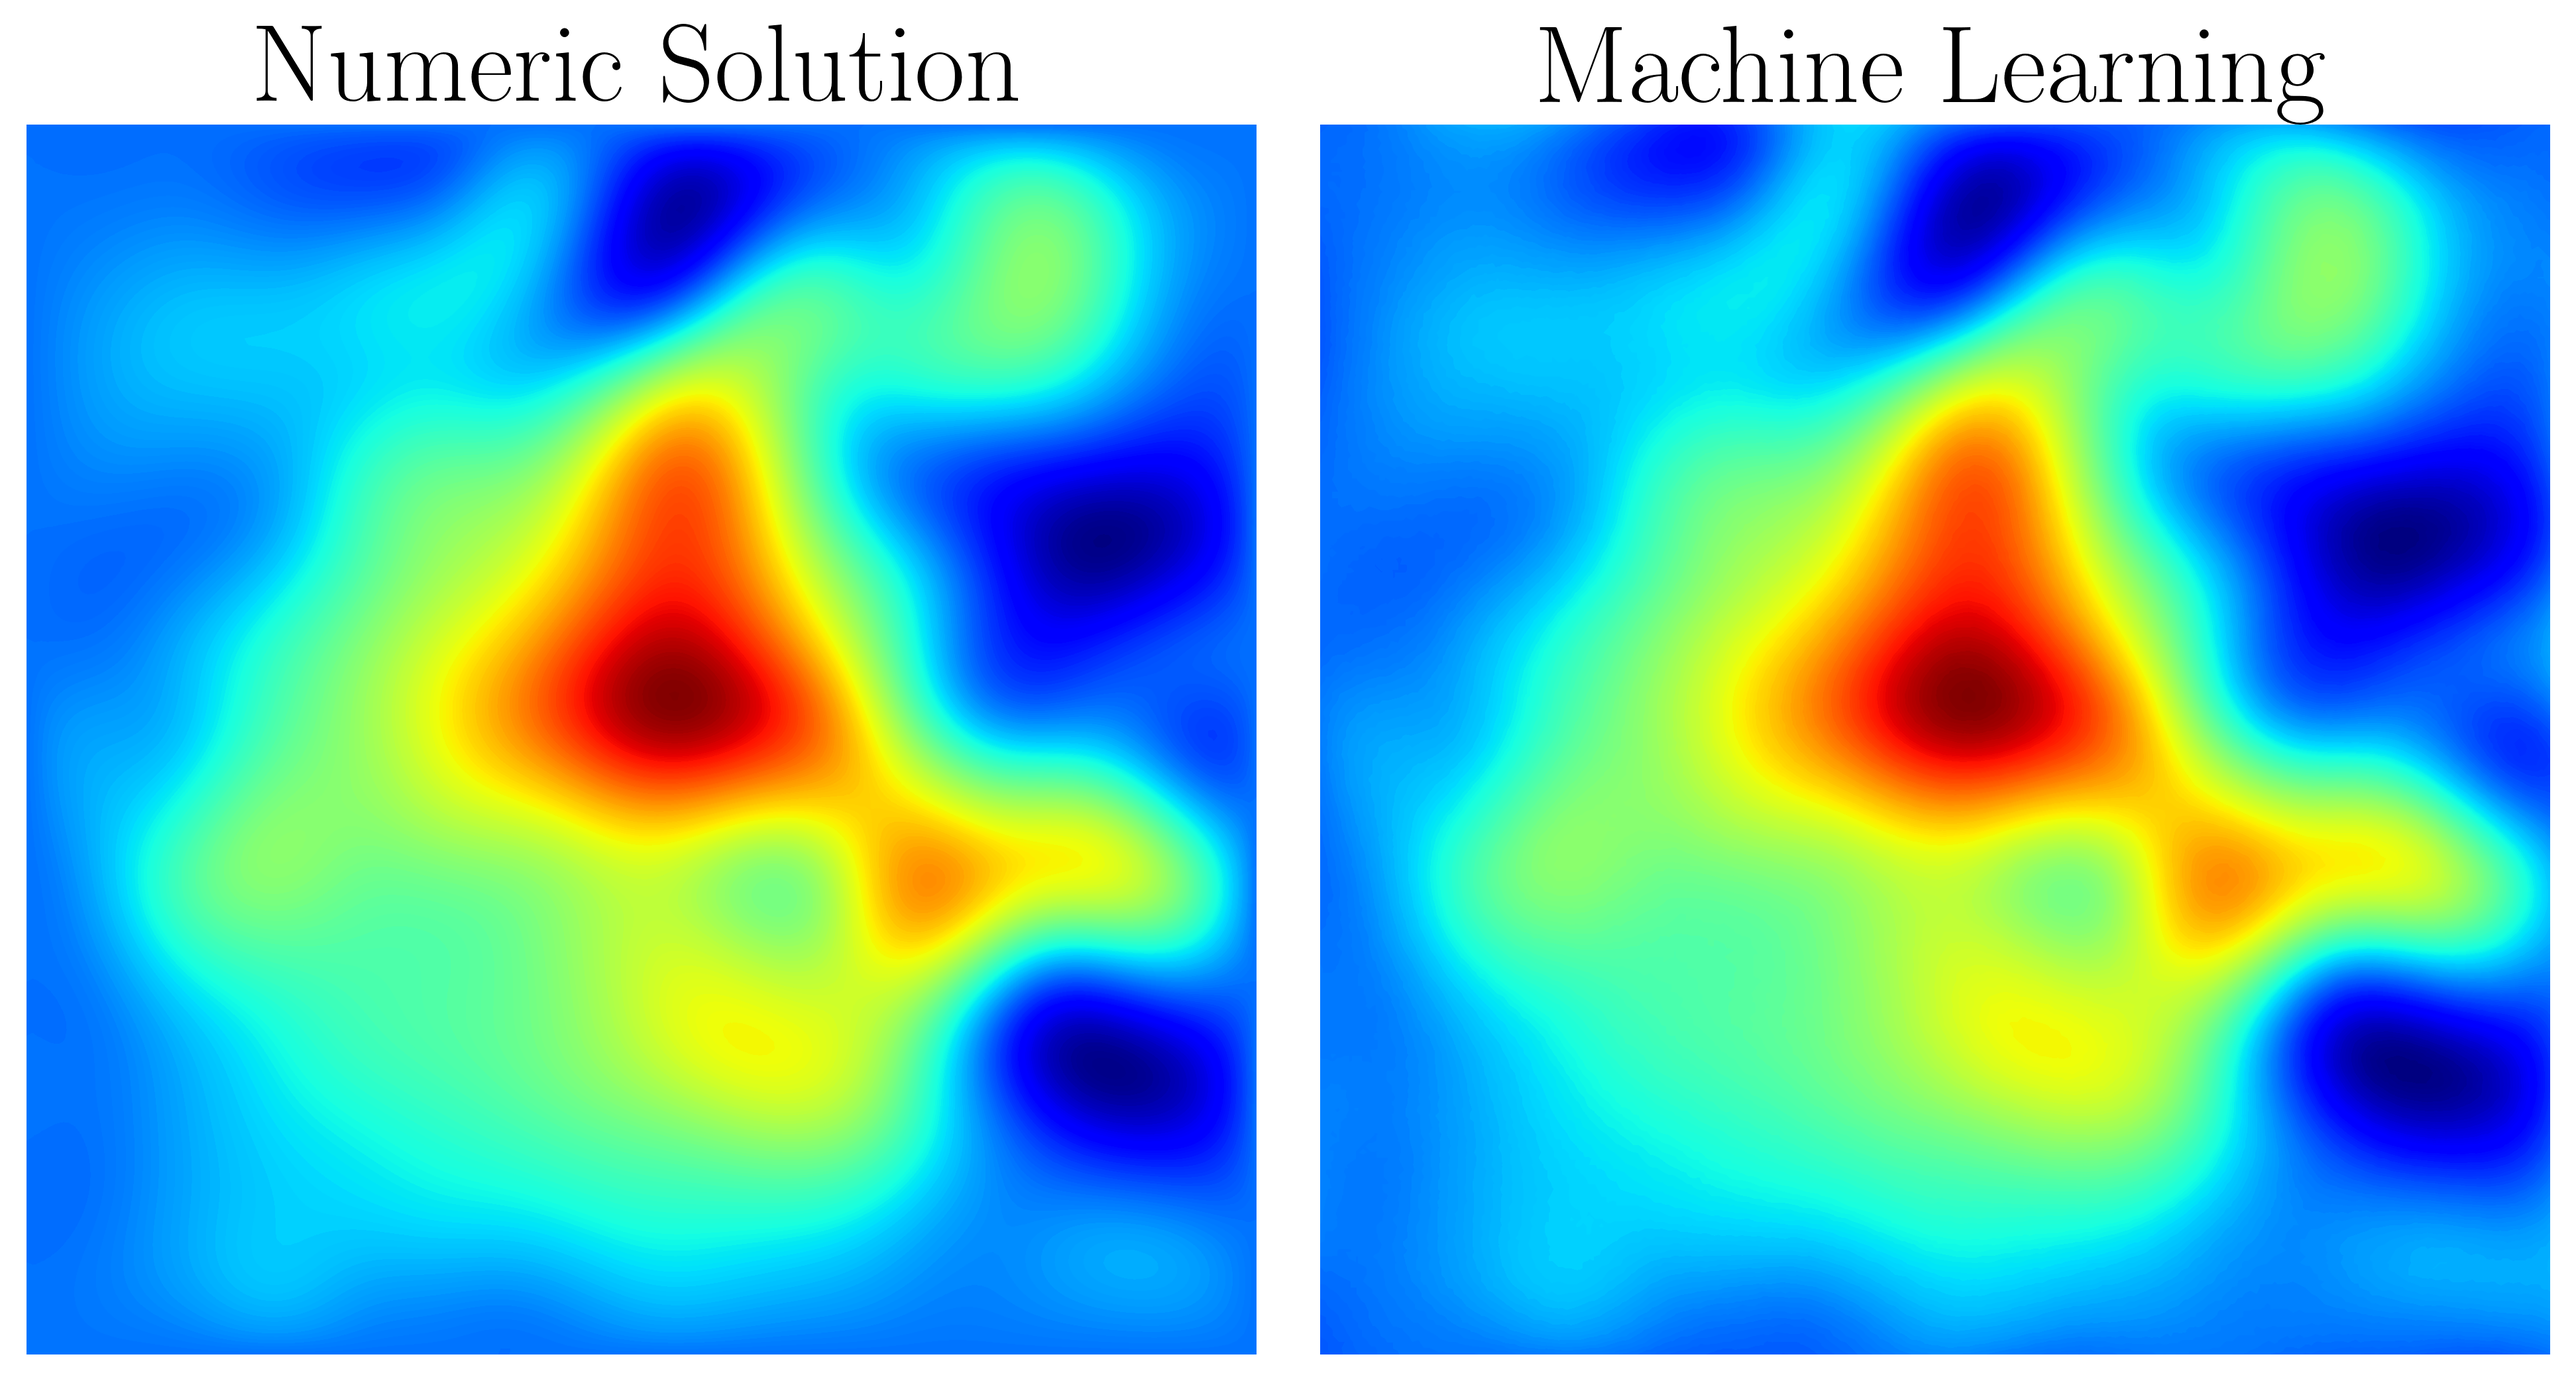
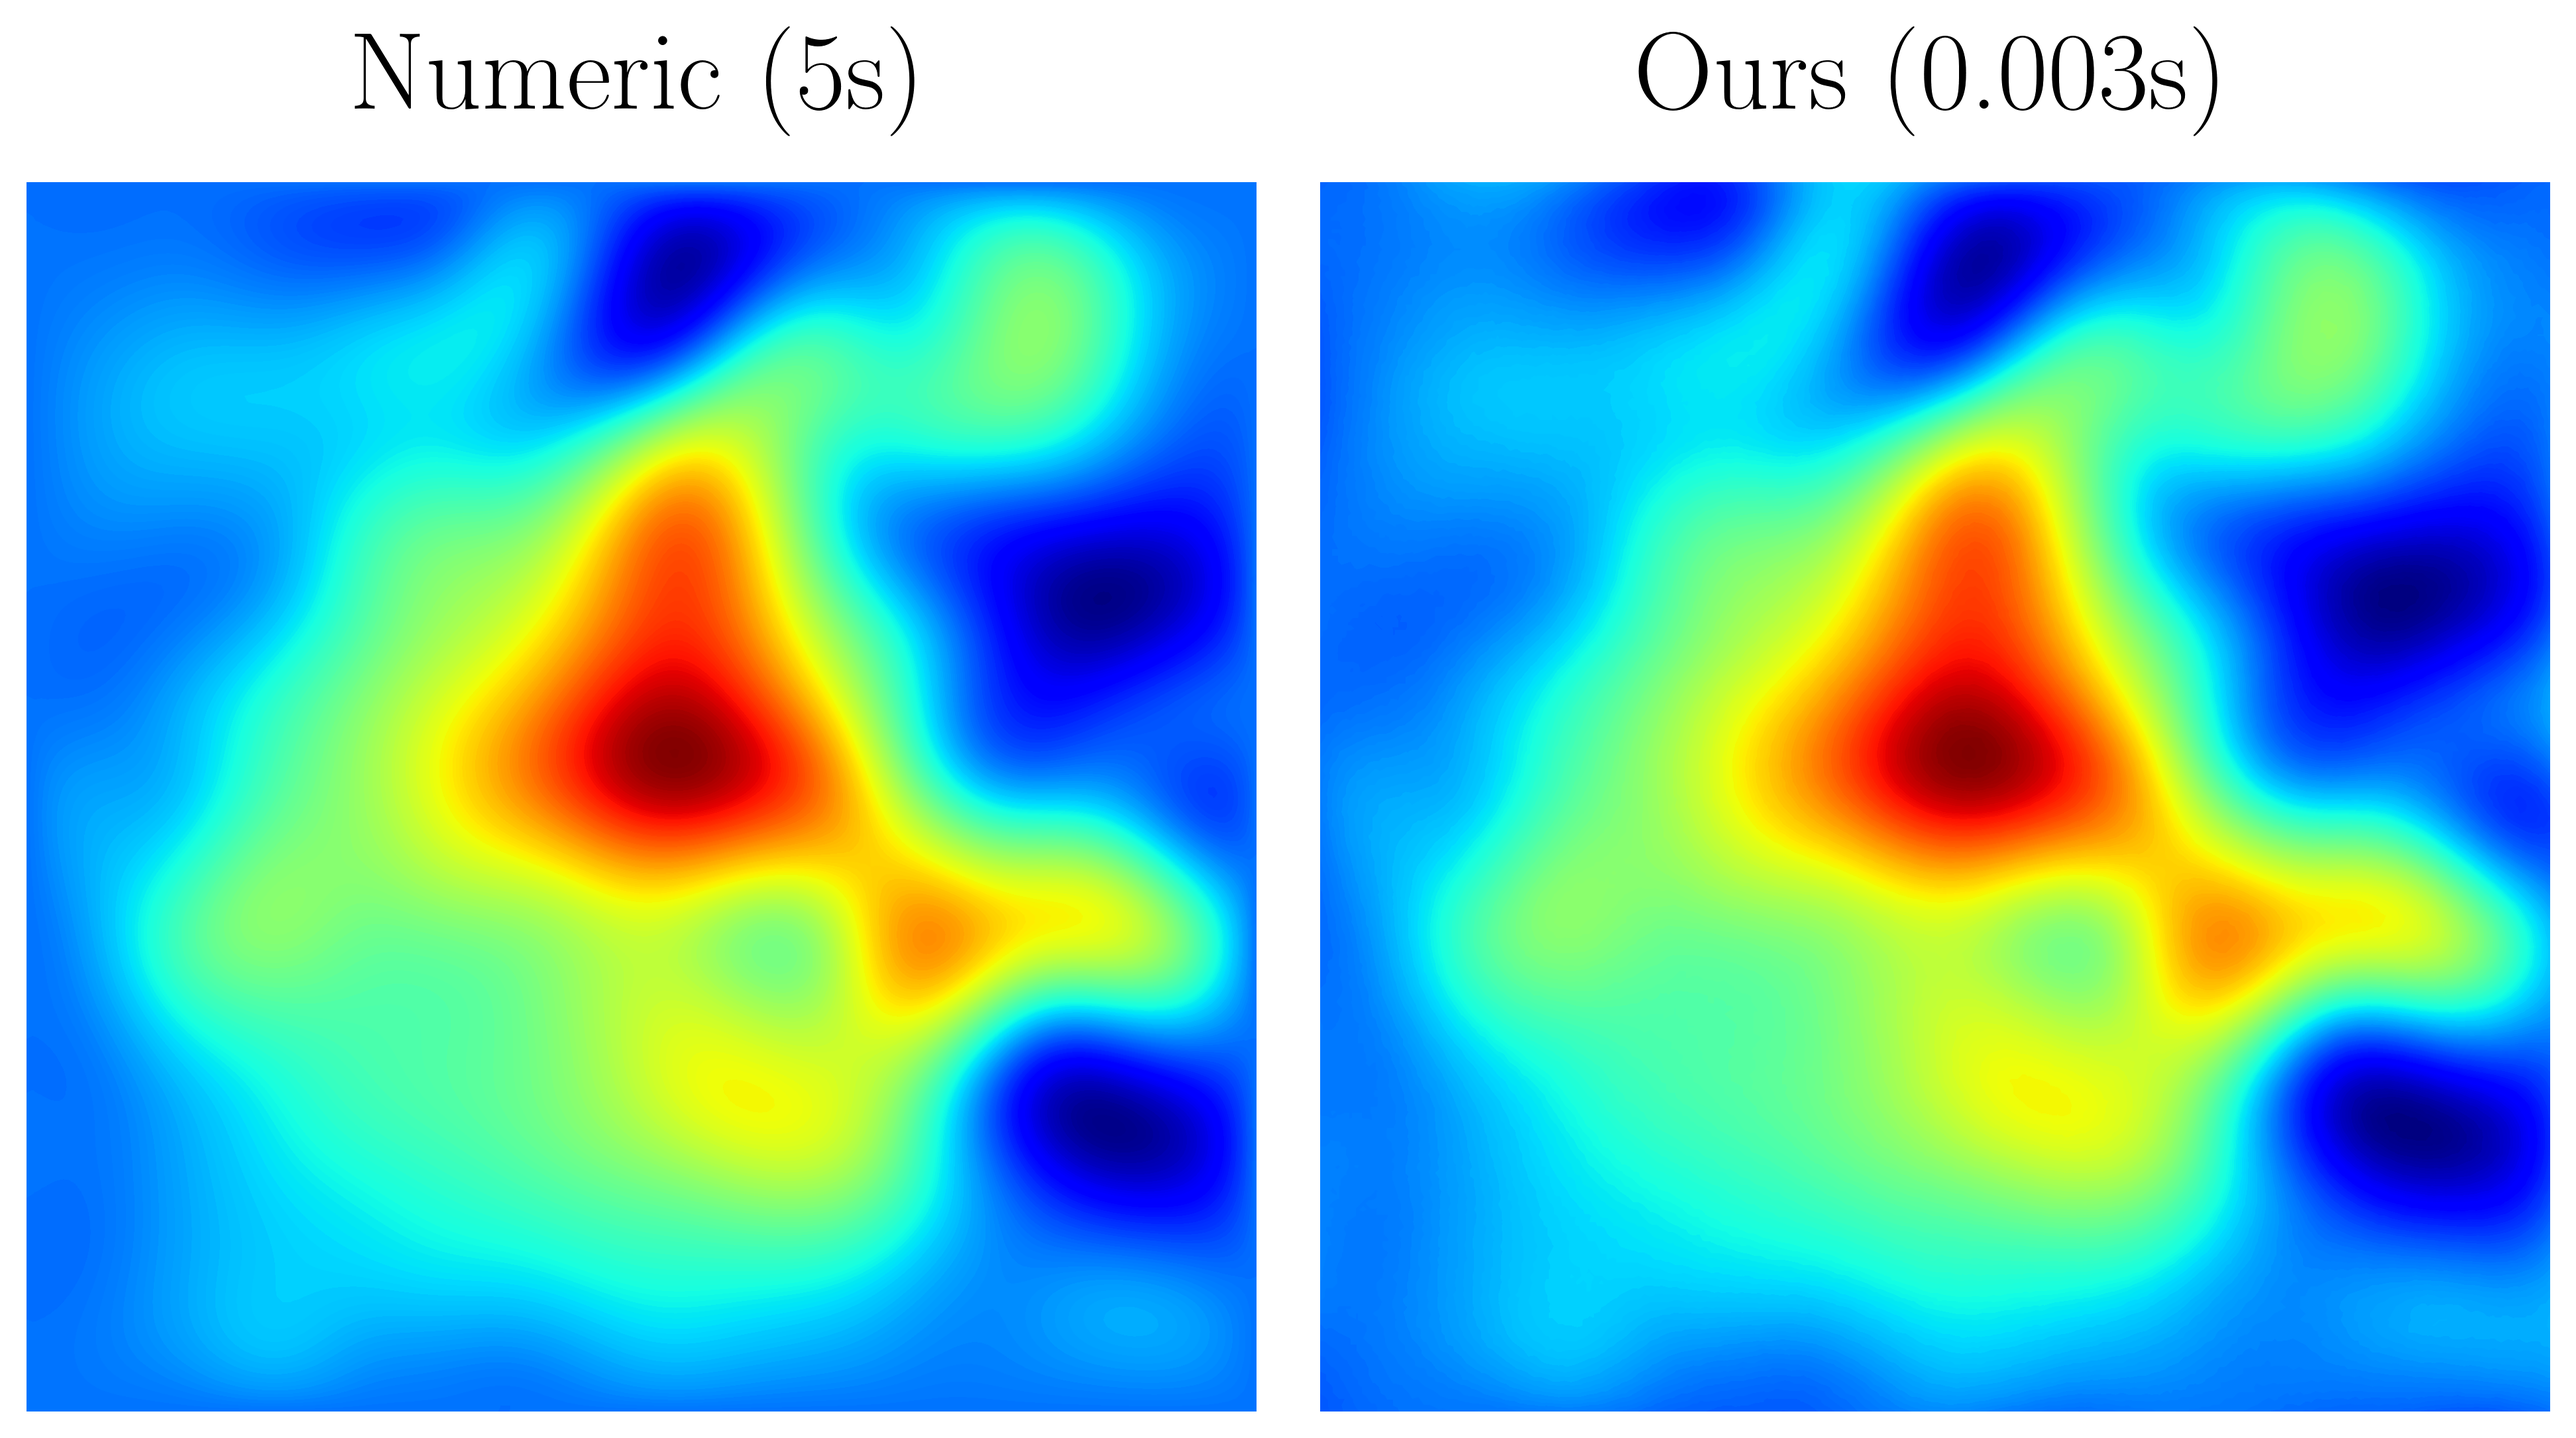
update example image

diff --git a/fast_poisson_solver/plotter.py b/fast_poisson_solver/plotter.py
@@ -23,6 +23,7 @@ from matplotlib.cm import ScalarMappable
 from scipy.cluster.hierarchy import linkage, fcluster
 from scipy.spatial.distance import pdist
 from .utils import minmax, sort_ascend, format_input, process_grid_data
+import matplotlib.font_manager as fm
 
 #
 # def plot_lambda_error(solver):
@@ -318,8 +319,9 @@ def plot_side_by_side(x_pde, y_pde, x_bc, y_bc, u_pred, f, f_pred, u_num,
     ax[1].tricontourf(x_tot.reshape(-1), y_tot.reshape(-1), u_pred.reshape(-1), 200, cmap='jet', vmin=vmin_u,
                       vmax=vmax_u)
 
-    ax[0].set_title('Numeric Solution', fontsize=30, fontweight='bold')
-    ax[1].set_title('Machine Learning', fontsize=30, fontweight='bold')
+    font_name = "Calibri" if "Calibri" in fm.findSystemFonts(fontpaths=None, fontext='ttf') else None
+    ax[0].set_title('Numeric (5s)', fontsize=30, fontweight='bold', fontname=font_name, pad=20)
+    ax[1].set_title('Ours (0.003s)', fontsize=30, fontweight='bold', fontname=font_name, pad=20)
 
     ax[0].set_aspect('equal', adjustable='box')
     ax[1].set_aspect('equal', adjustable='box')
